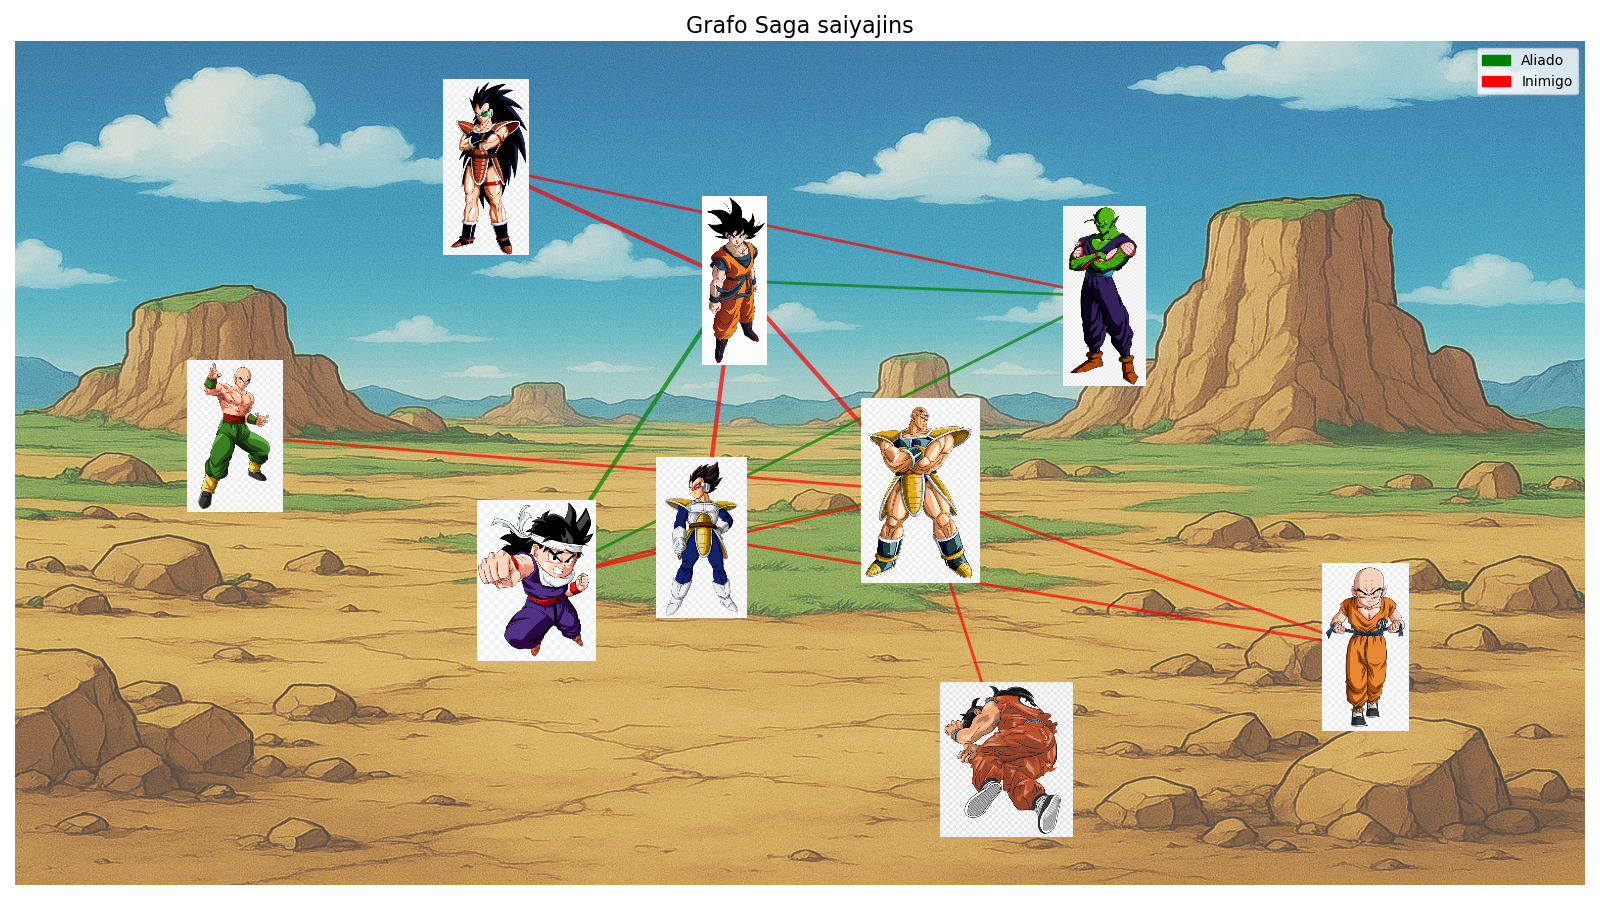
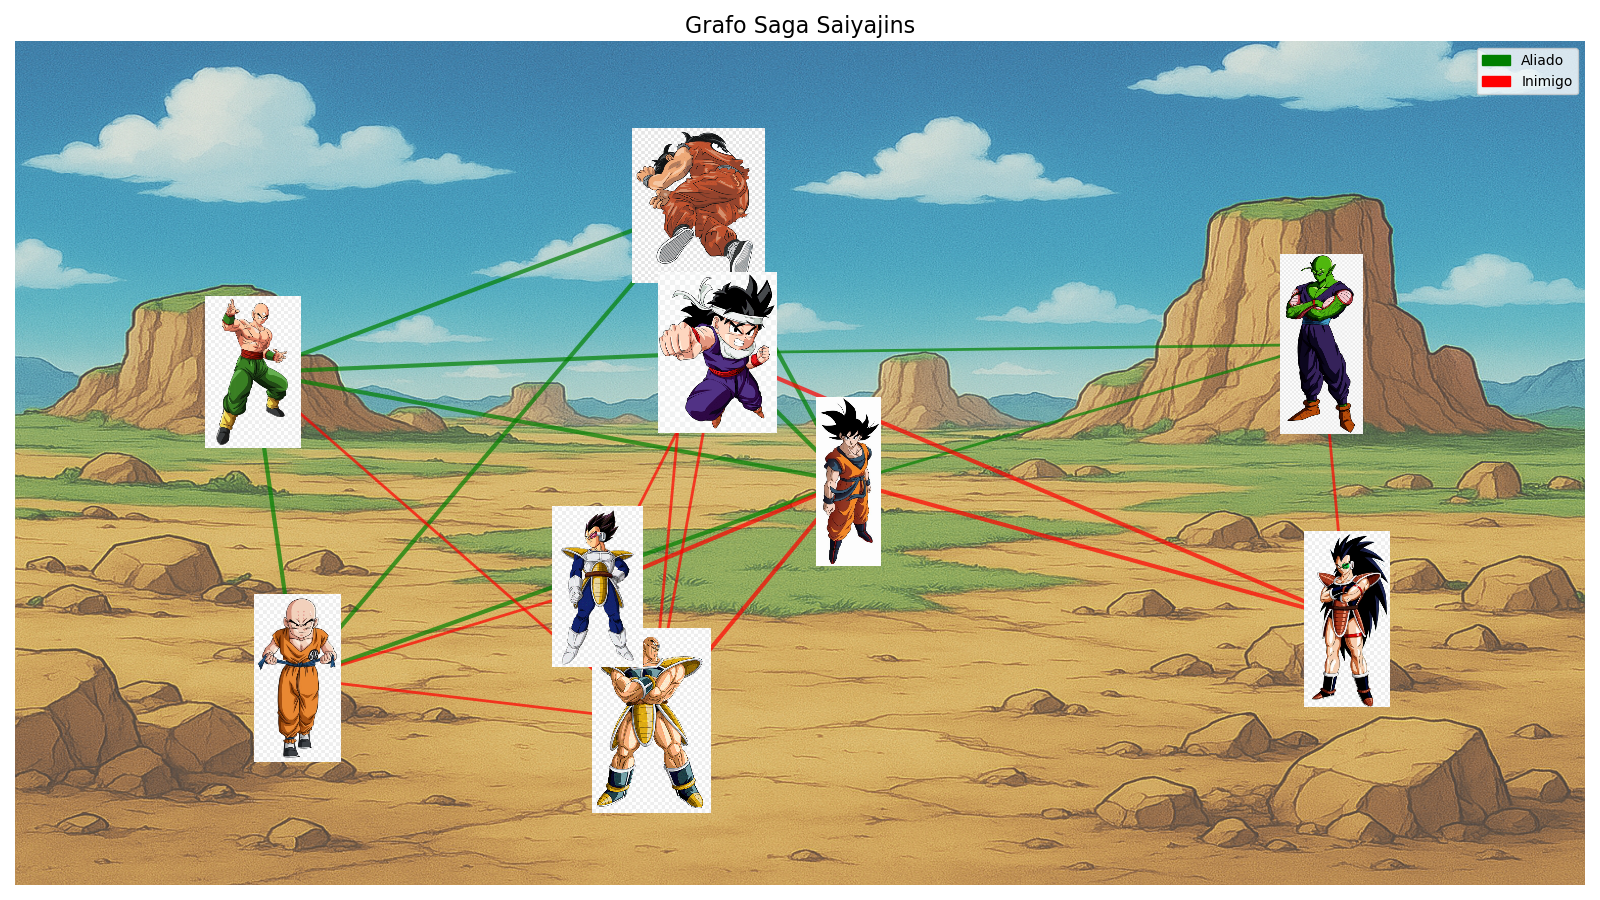
finalizando

diff --git a/src/grafo.py b/src/grafo.py
@@ -21,8 +21,13 @@ def main():
         "majin buu": "Majin Buu"
     }
 
-    sagas = set(r['saga'].lower() for r in relacoes)
-    for saga in sagas:
+    ordem_cronologica_sagas = ["saiyajins", "freeza", "cell", "majin buu"]
+    sagas_presentes = set(r['saga'].lower() for r in relacoes)
+
+    for saga in ordem_cronologica_sagas:
+        if saga not in sagas_presentes:
+            continue
+
         G_saga = construir_grafo_por_saga(relacoes, saga)
         imprimir_metricas(G_saga, f"Grafo Saga {saga}")
 
@@ -49,14 +54,10 @@ def main():
         nome_arquivo = f"grafo_saga_{saga.replace(' ', '_')}.png"
         desenhar_grafo_com_imagens(
             G_saga, pos_saga, imagens_saga,
-            f"Grafo Saga {saga}",
+            f"Grafo Saga {saga.capitalize()}",
             nome_arquivo,
             saga=saga
         )
-
-
-
-
 
 if __name__ == "__main__":
     main()

diff --git a/src/utils.py b/src/utils.py
@@ -105,7 +105,7 @@ def desenhar_grafo_com_imagens(G, pos, imagens, titulo="", nome_arquivo="grafo.p
     # Arestas
     for u, v, data in G.edges(data=True):
         cor = 'green' if data['tipo'] == 'aliado' else 'red'
-        largura = max(0.5, data['peso'])
+        largura = max(1, data['peso'])
         ax.plot(
             [pos[u][0], pos[v][0]],
             [pos[u][1], pos[v][1]],

diff --git a/src/view_for_saga.py b/src/view_for_saga.py
@@ -38,5 +38,3 @@ def visualizar_saga(saga_nome):
     )
 
 
-if __name__ == "__main__":
-    visualizar_saga("Saiyajins")
